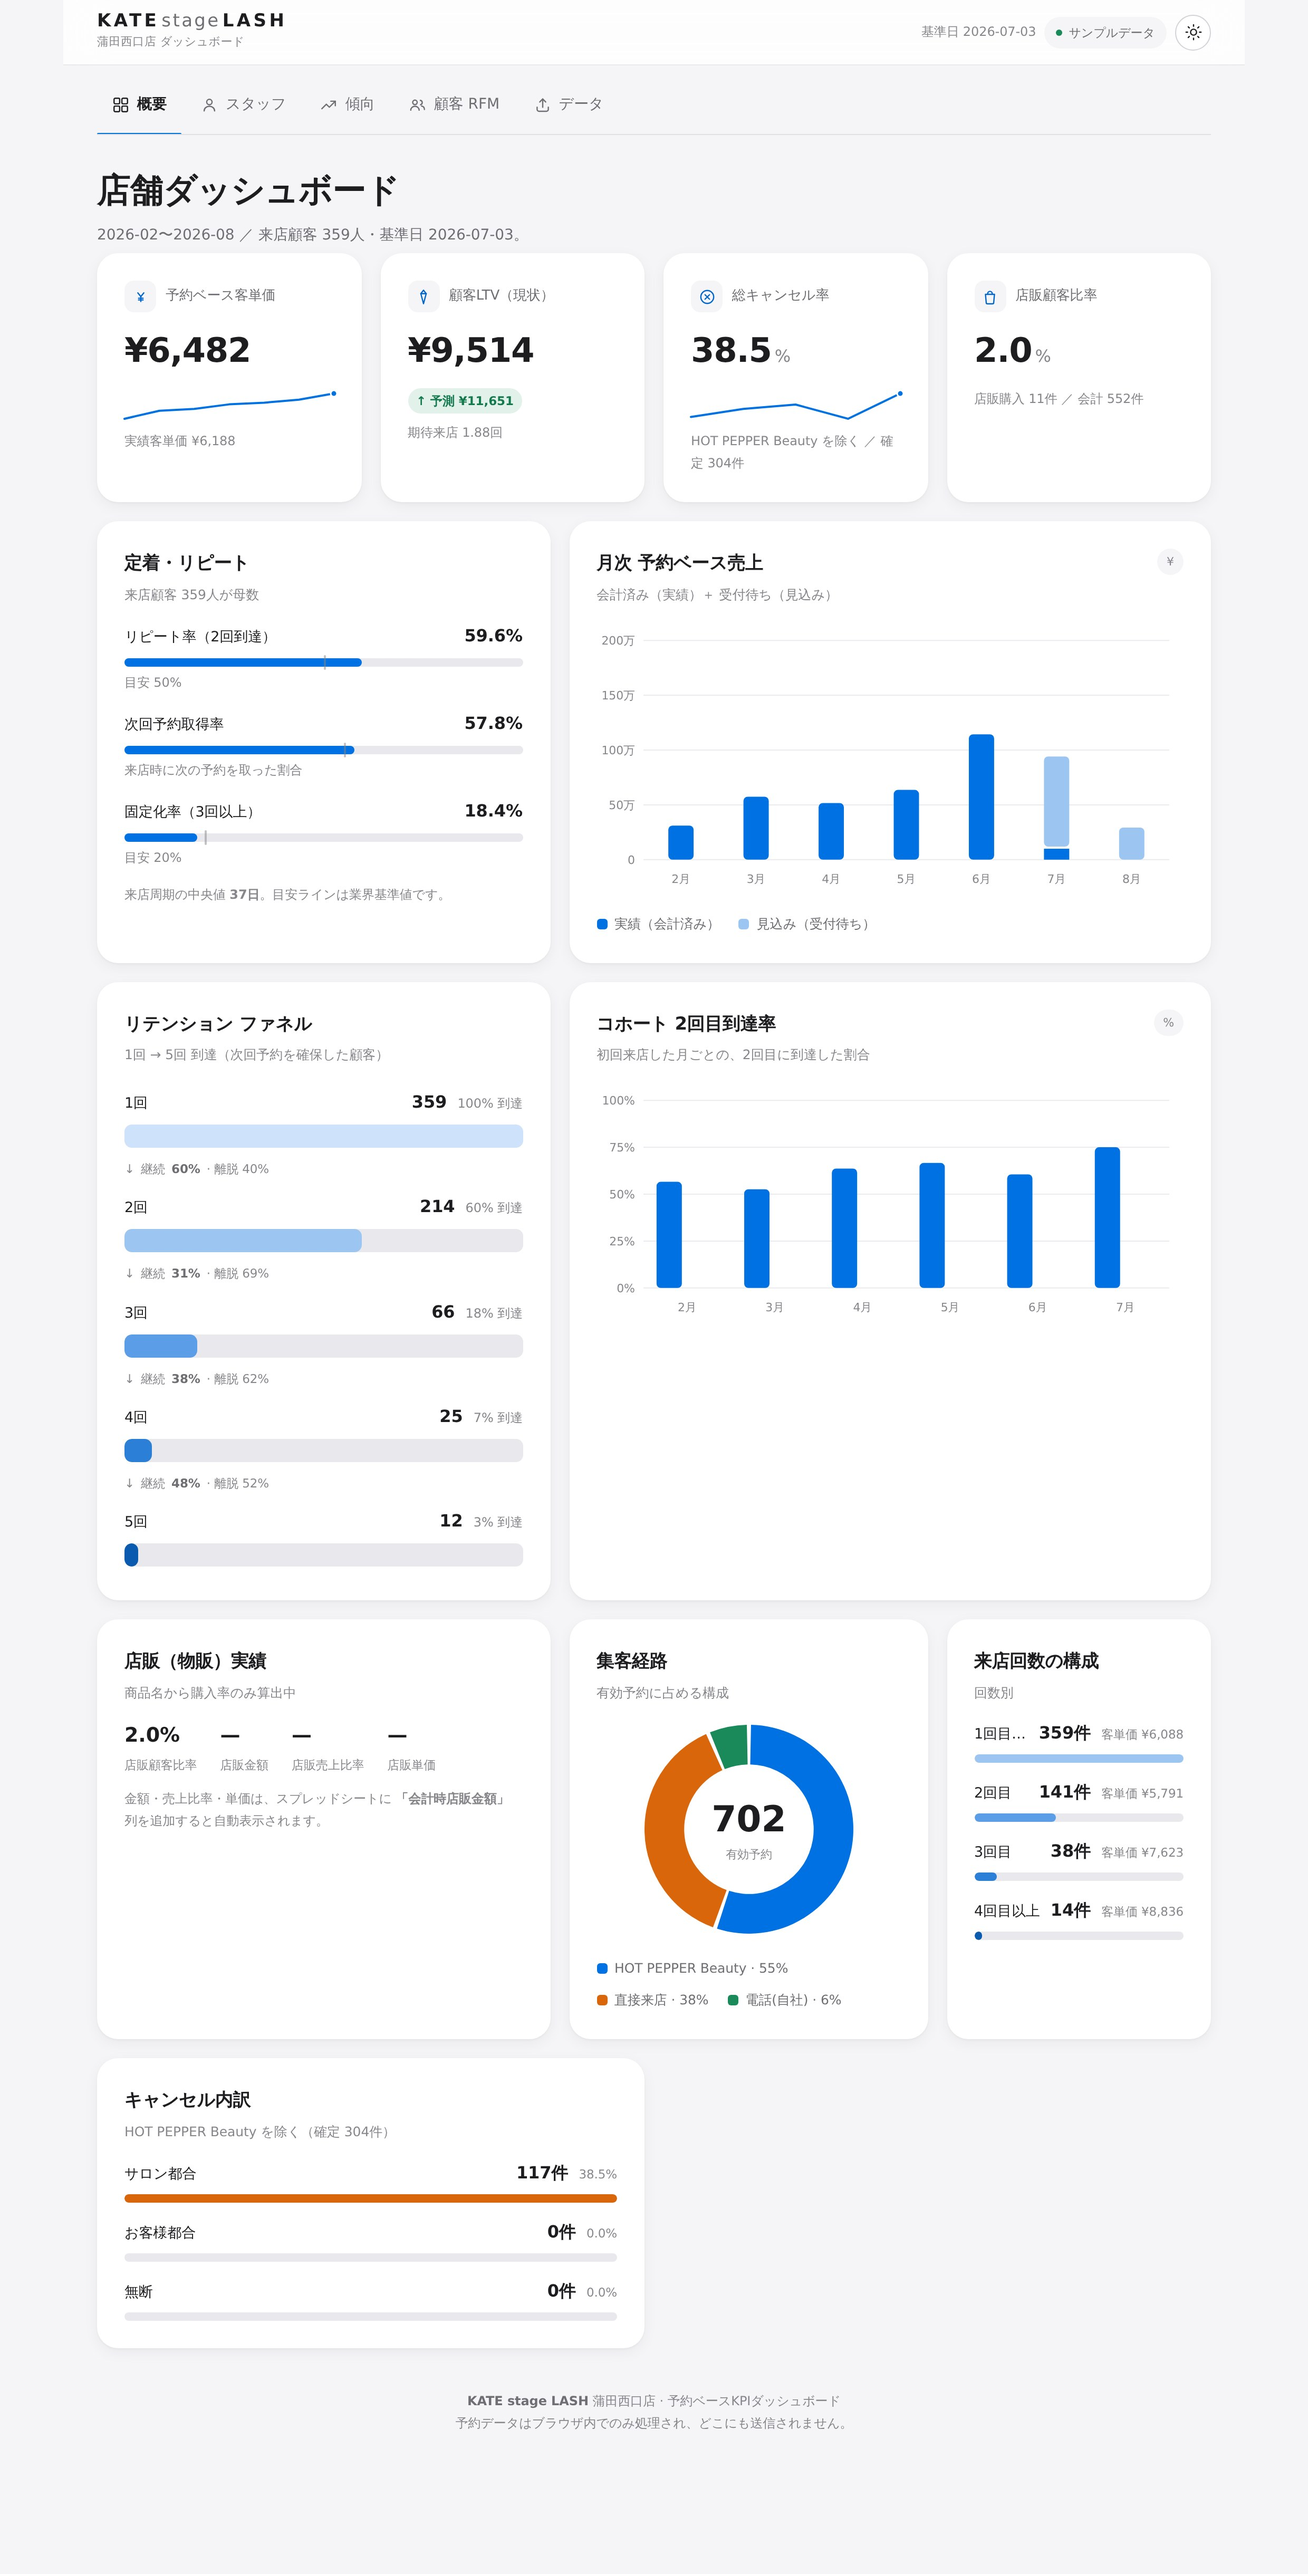
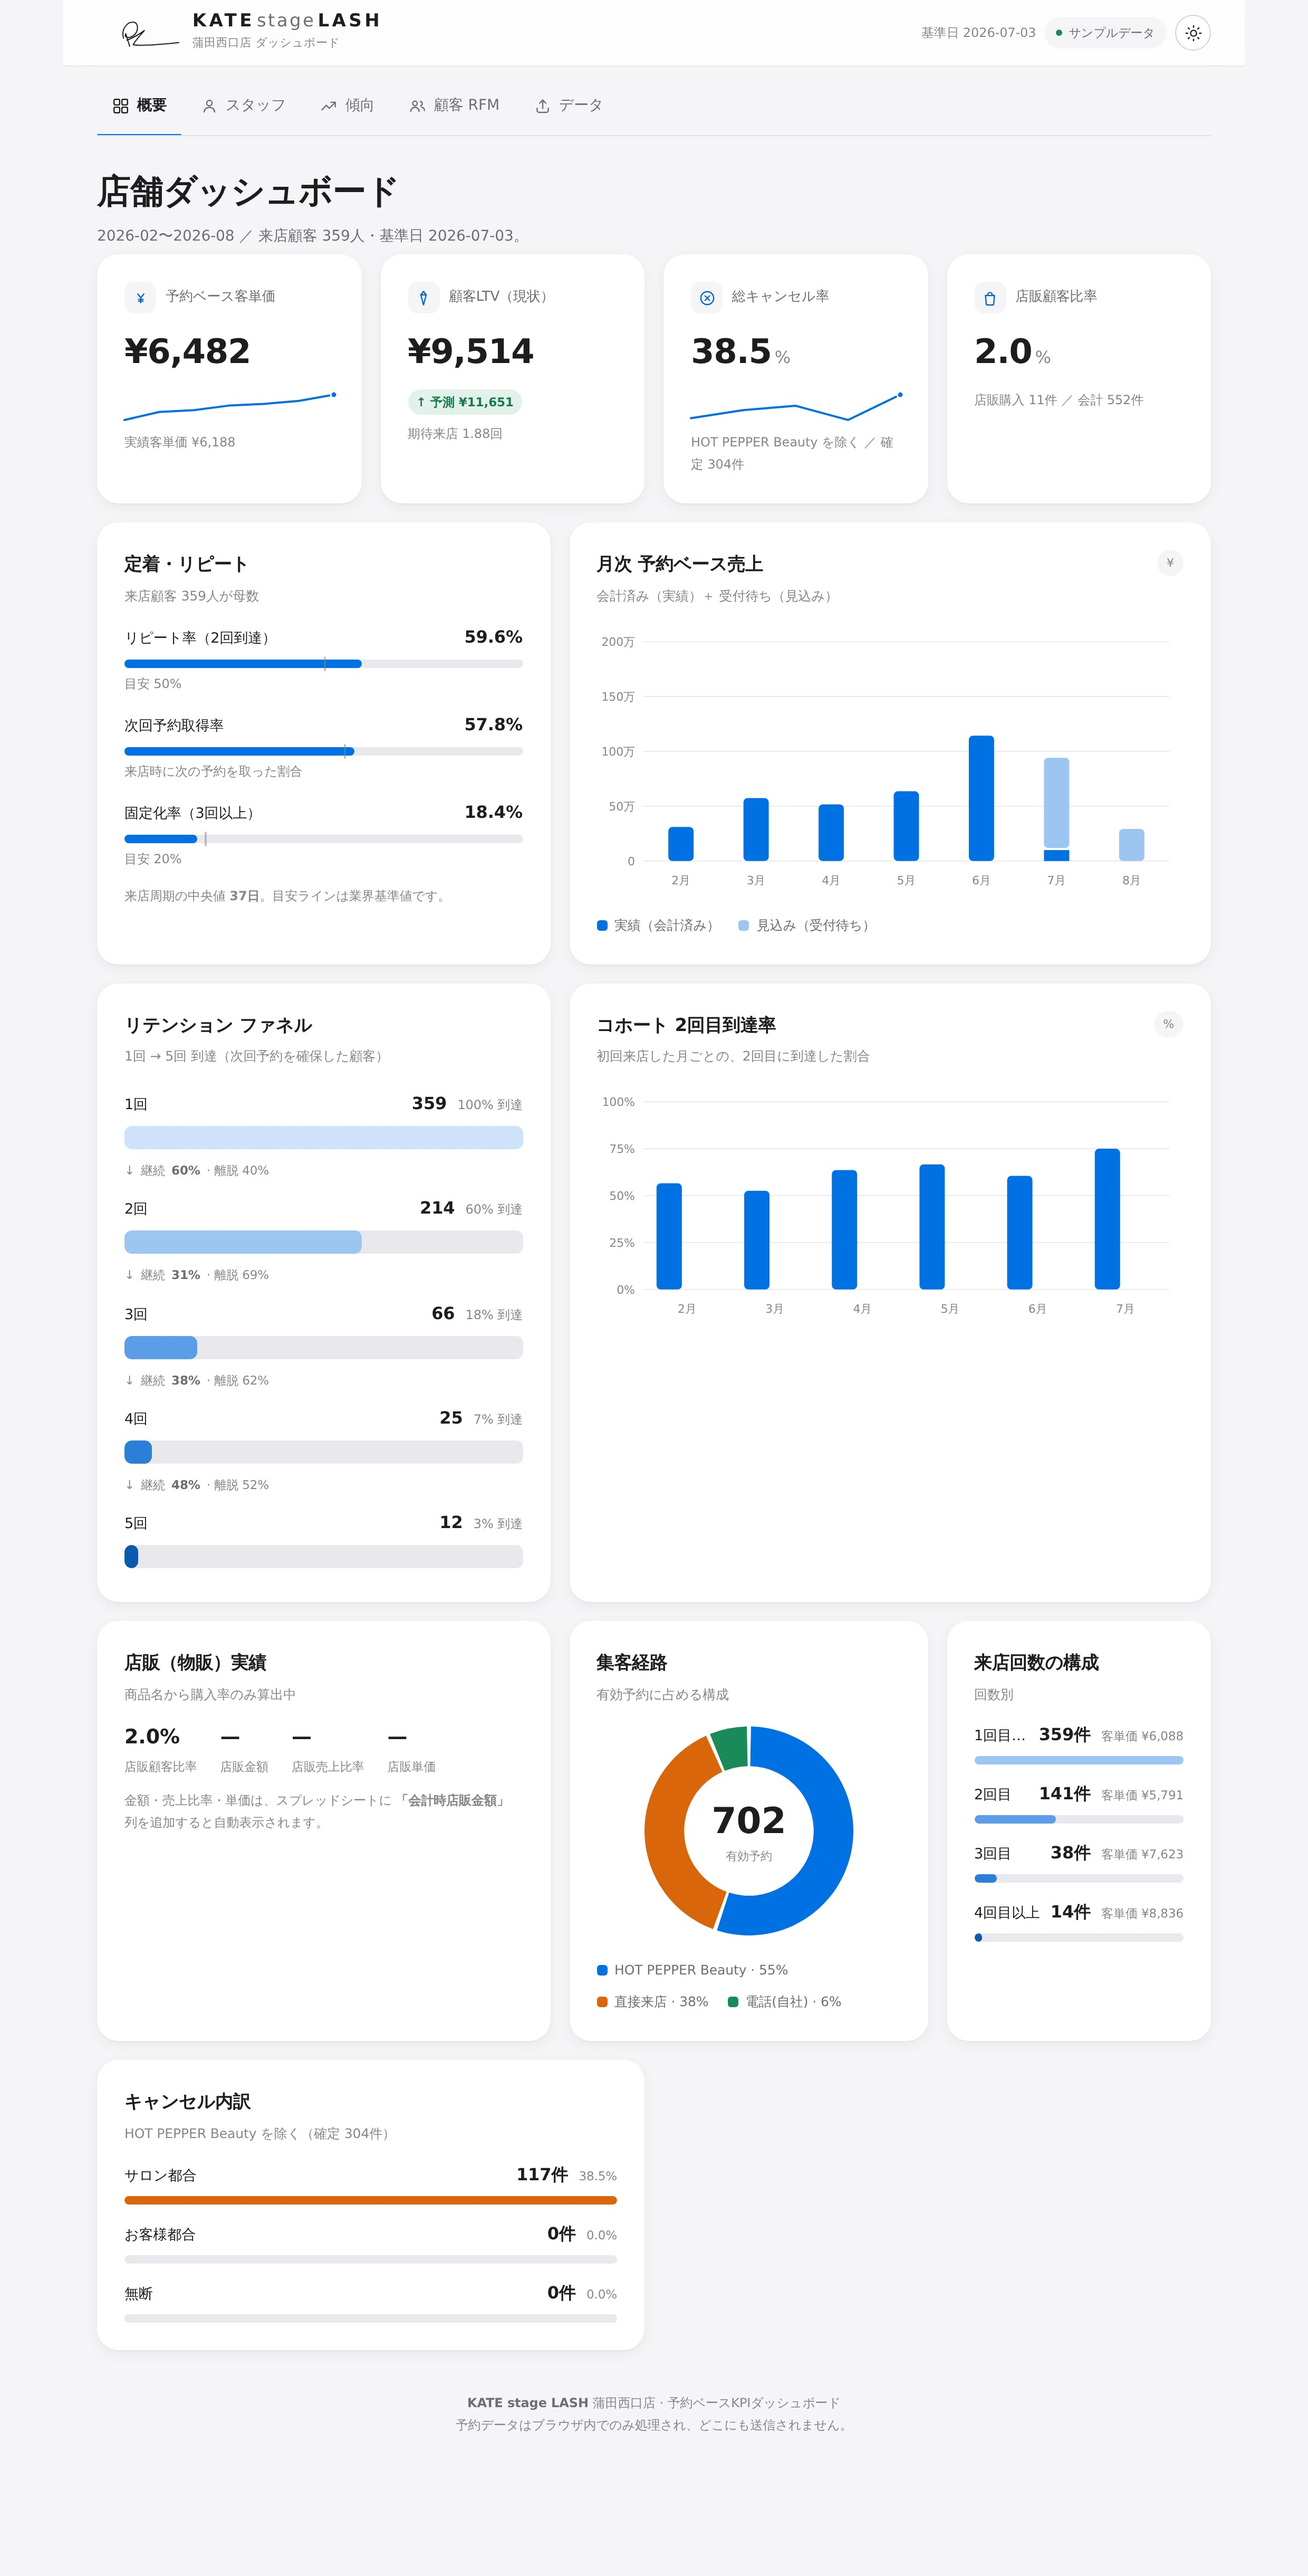
店舗ロゴをヘッダーに追加・店販列の自動認識を拡張・Pages ワークフロー削除（#6）
ロゴ
- 筆記体の「k」マーク＋ワードマークをベクター（インラインSVG）でヘッダーに実装
- currentColor によりライト/ダーク両テーマへ自動追従
- モバイルでの折り返し・重なりを解消（マーク/ワードマーク/バッジのサイズ調整）

店販（物販）売上の取り込み拡張
- 店販金額の列名を幅広く自動認識：会計時店販金額／店販金額／店販売上／店販売上金額／
  店販合計／店販価格／物販金額／物販売上／物販合計
- 店販商品・カテゴリの別名も追加（店販／物販／店販商品 ほか）
- 金額列があれば 店販金額・店販売上比率・店販単価を自動算出（概要・スタッフ別）

その他
- 失敗していた GitHub Pages の Actions ワークフロー（pages.yml）を削除
  （Settings → Pages の「Deploy from a branch」で main から公開）
- README を更新（Pages手順・店販の指標定義）／スクリーンショットを更新

回帰テスト 69項目すべて合格。

Claude-Session: https://claude.ai/code/session_012eY9422UrXKcAKGFSsTCXy

diff --git a/assets/css/styles.css b/assets/css/styles.css
@@ -130,12 +130,23 @@ svg { display: block; }
   background: var(--glass); backdrop-filter: saturate(1.8) blur(20px); -webkit-backdrop-filter: saturate(1.8) blur(20px);
   border-bottom: 1px solid var(--hairline);
 }
-.brand { display: flex; flex-direction: column; gap: 1px; margin-right: auto; min-width: 0; color: inherit; }
+.brand { display: flex; flex-direction: row; align-items: center; gap: 11px; margin-right: auto; min-width: 0; color: inherit; }
+.brand-mark { flex: none; color: var(--ink-primary); line-height: 0; }
+.brand-mark svg { height: 34px; width: auto; display: block; }
+.brand-text { display: flex; flex-direction: column; gap: 2px; min-width: 0; }
 .wordmark { font-family: var(--font-display); font-size: 17px; font-weight: 500; letter-spacing: .16em; text-transform: uppercase; line-height: 1; white-space: nowrap; }
 .wordmark b { font-weight: 700; }
 .wordmark i { font-style: normal; font-weight: 400; text-transform: lowercase; letter-spacing: .1em; margin: 0 .12em; color: var(--ink-secondary); }
 .brand-sub { font-size: 11px; color: var(--ink-muted); letter-spacing: .02em; }
 .topbar-actions { display: flex; align-items: center; gap: 8px; }
+@media (max-width: 600px) {
+  .topbar { gap: 8px; }
+  .brand { gap: 7px; }
+  .brand-mark svg { height: 25px; }
+  .wordmark { font-size: 13.5px; letter-spacing: .06em; }
+  .brand-sub { font-size: 10px; white-space: nowrap; overflow: hidden; text-overflow: ellipsis; }
+  .badge-soft { font-size: 10.5px; padding: 5px 9px; }
+}
 .asof { font-size: 12px; color: var(--ink-muted); font-variant-numeric: tabular-nums; display: none; }
 @media (min-width: 720px) { .asof { display: inline-flex; align-items: center; gap: 6px; } }
 
@@ -151,7 +162,7 @@ svg { display: block; }
 .pill.accent:hover { background: var(--accent-ink); }
 .pill.icon-only { width: 34px; padding: 0; }
 .pill svg { width: 17px; height: 17px; stroke-width: 1.7; }
-.badge-soft { display: inline-flex; align-items: center; gap: 6px; padding: 5px 11px; border-radius: 980px; background: var(--surface-2); color: var(--ink-secondary); font-size: 11.5px; font-weight: 500; }
+.badge-soft { display: inline-flex; align-items: center; gap: 6px; padding: 5px 11px; border-radius: 980px; background: var(--surface-2); color: var(--ink-secondary); font-size: 11.5px; font-weight: 500; white-space: nowrap; flex: none; }
 .badge-soft .dot { width: 6px; height: 6px; border-radius: 980px; background: var(--good); }
 
 /* ---- Tabs (desktop) -------------------------------------------------------*/

diff --git a/index.html b/index.html
@@ -14,8 +14,16 @@
   <!-- Top bar -->
   <header class="topbar">
     <a class="brand" href="#overview" aria-label="KATE stage LASH 蒲田西口店 ダッシュボード">
-      <span class="wordmark" lang="en" aria-hidden="true"><b>KATE</b><i>stage</i><b>LASH</b></span>
-      <span class="brand-sub">蒲田西口店 ダッシュボード</span>
+      <span class="brand-mark" aria-hidden="true">
+        <svg viewBox="0 0 700 300" fill="none" stroke="currentColor" stroke-width="9" stroke-linecap="round" stroke-linejoin="round">
+          <path d="M 222 196 C 198 126 250 56 306 62 C 352 67 350 148 296 180 C 266 197 222 191 240 158 C 250 192 262 228 273 264"/>
+          <path d="M 250 212 C 302 194 346 168 396 132 C 358 174 324 212 302 250 C 348 259 448 255 566 244 C 626 239 664 236 684 233"/>
+        </svg>
+      </span>
+      <span class="brand-text">
+        <span class="wordmark" lang="en" aria-hidden="true"><b>KATE</b><i>stage</i><b>LASH</b></span>
+        <span class="brand-sub">蒲田西口店 ダッシュボード</span>
+      </span>
     </a>
     <div class="topbar-actions">
       <span class="asof" id="asof" title="集計基準日"></span>

diff --git a/assets/js/ingest.js b/assets/js/ingest.js
@@ -27,10 +27,23 @@
     '予約時HotPepperBeautyクーポン': 'coupon',
     '予約時HotPepperBeautyクーポンカテゴリ': 'couponCat',
     '会計時店販カテゴリ': 'shohanCat',
+    '店販カテゴリ': 'shohanCat',
+    '物販カテゴリ': 'shohanCat',
     '会計時店販': 'shohan',
+    '店販': 'shohan',
+    '店販商品': 'shohan',
+    '店販商品名': 'shohan',
+    '物販': 'shohan',
+    '物販商品': 'shohan',
     '会計時店販金額': 'shohanAmount',
     '店販金額': 'shohanAmount',
+    '店販売上': 'shohanAmount',
+    '店販売上金額': 'shohanAmount',
+    '店販合計': 'shohanAmount',
+    '店販価格': 'shohanAmount',
     '物販金額': 'shohanAmount',
+    '物販売上': 'shohanAmount',
+    '物販合計': 'shohanAmount',
     'フリガナ': 'kana',
     'お名前': 'name',
     '電話番号': 'phone',

diff --git a/README.md b/README.md
@@ -33,10 +33,9 @@
 ### 1. そのまま開く
 `index.html` をブラウザで開くだけ（同梱のサンプルデータで全機能が動きます）。
 
-### 2. GitHub Pages で公開する（自動デプロイ）
-`main` へ push すると `.github/workflows/pages.yml` が自動でPagesへデプロイします。
-Pages の有効化もワークフローが自動で行うため（`enablement: true`）、**設定作業は不要**です。
-数分後に `https://<ユーザー名>.github.io/KATE-KPI/` で公開されます。（`.nojekyll` 同梱）
+### 2. GitHub Pages で公開する
+リポジトリの **Settings → Pages** で「Deploy from a branch」を選び、ブランチを `main`（フォルダは `/ (root)`）に設定します。
+以後、`main` に push するたびに数分後 `https://<ユーザー名>.github.io/KATE-KPI/` へ自動反映されます。（`.nojekyll` 同梱）
 
 ### 3. Googleスプレッドシートと連携する（おすすめ）
 スプレッドシートに予約データを入れ、`データ` タブでその **URL を貼るだけ**。以後、ページを
